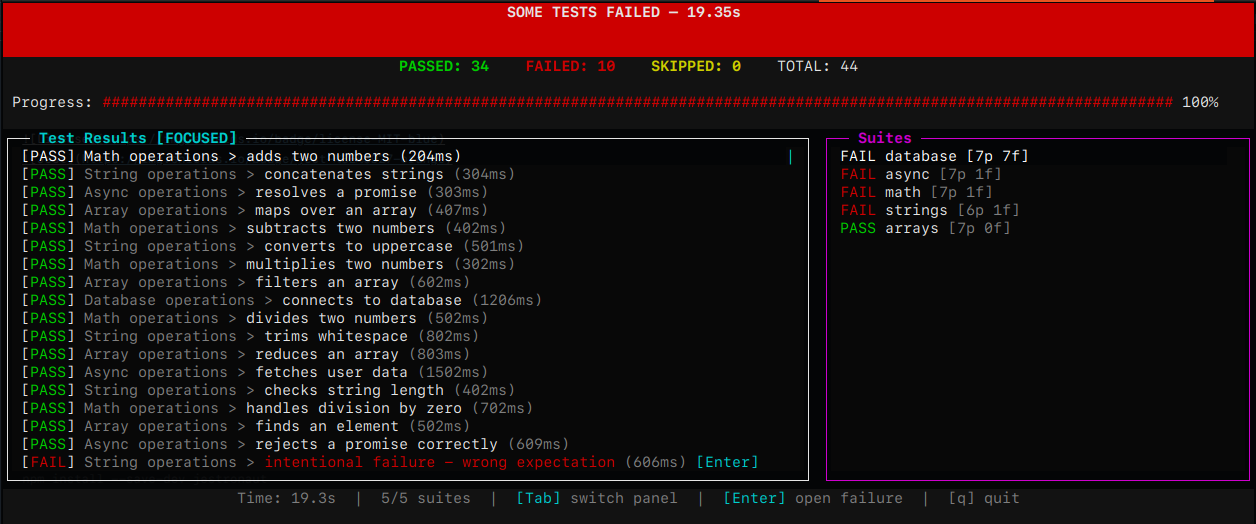
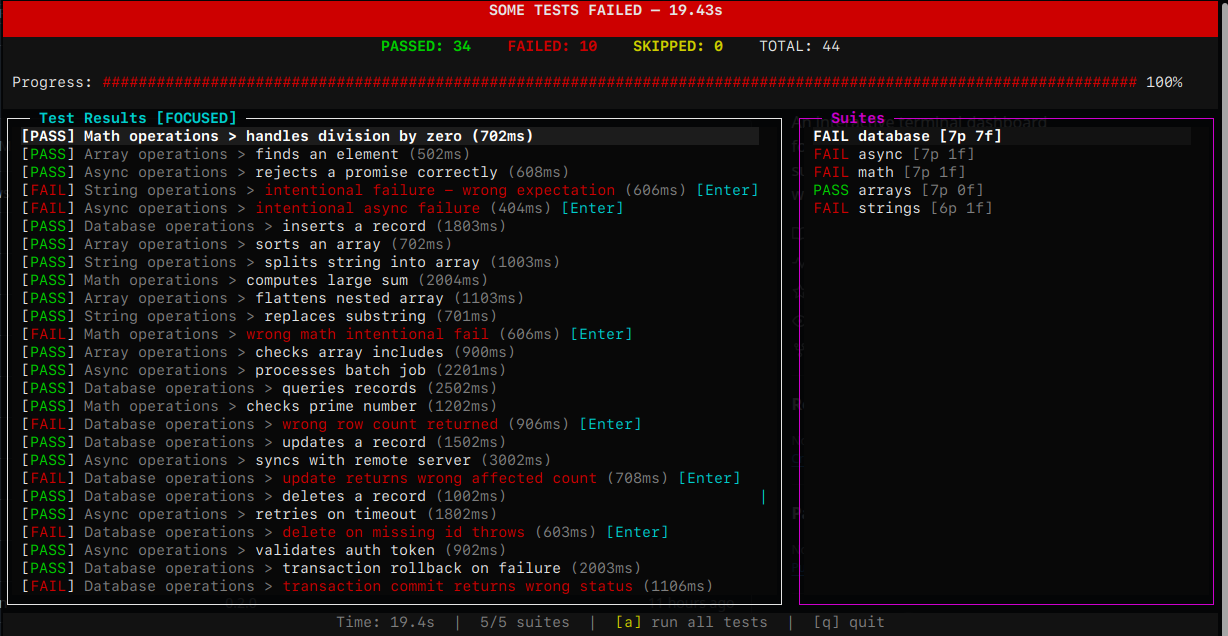
docs: update screenshots and add watch mode screenshot

Changed region(s): [[0.0, 0.0, 1.0, 1.0]]

diff --git a/README.md b/README.md
@@ -11,6 +11,9 @@ An interactive terminal dashboard for Jest — navigate live test results, suite
 ### Main Dashboard
 ![Main Dashboard](assets/dashboard.png)
 
+### Watch Mode
+![Watch Mode](assets/watch-mode.png)
+
 ### Suite Detail
 ![Suite Detail](assets/suite-detail.png)
 
